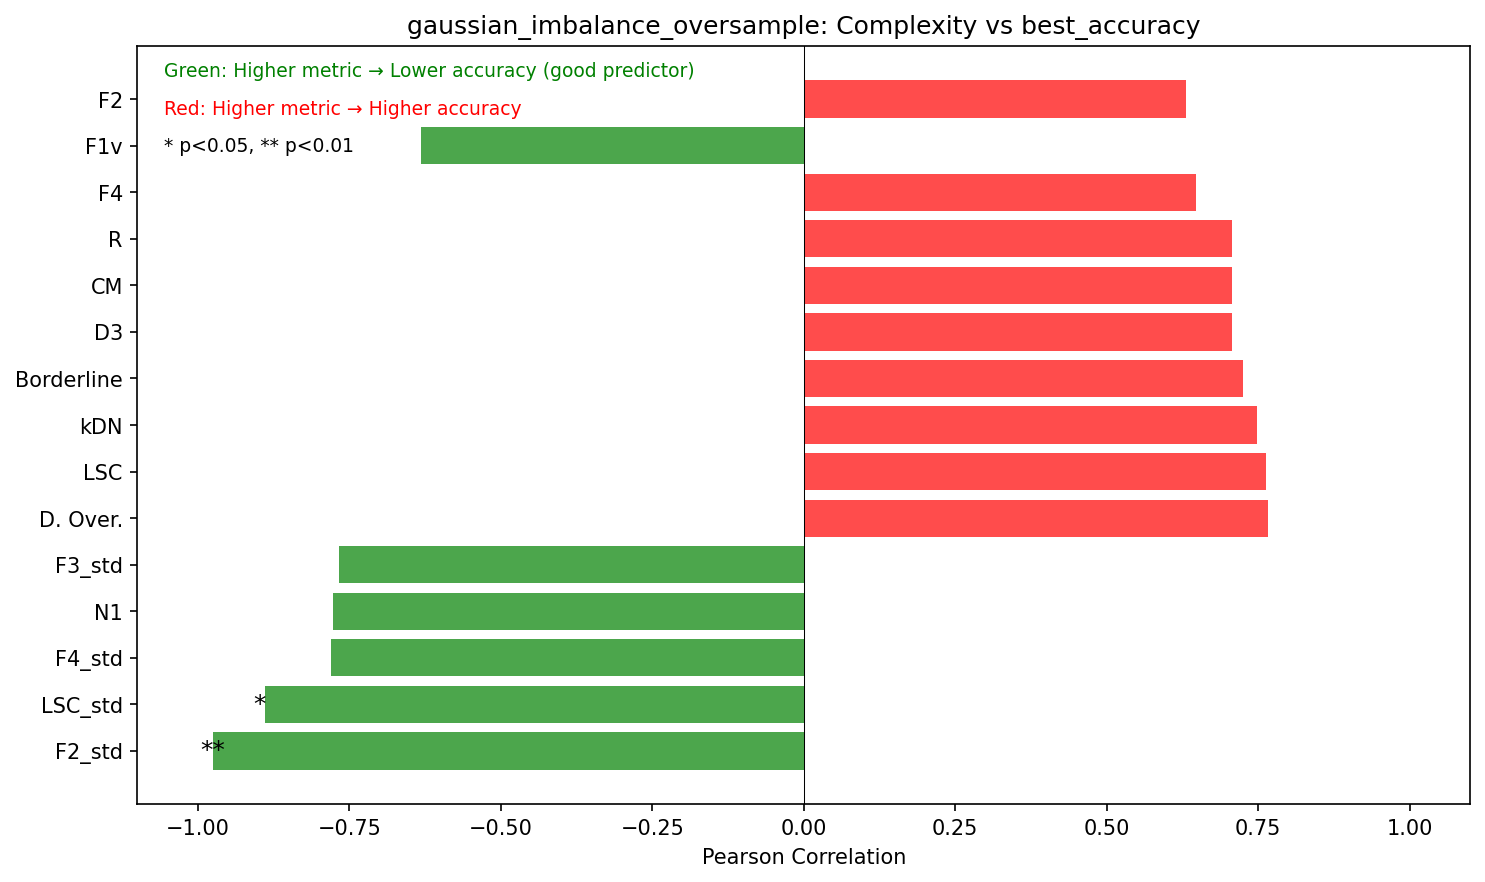
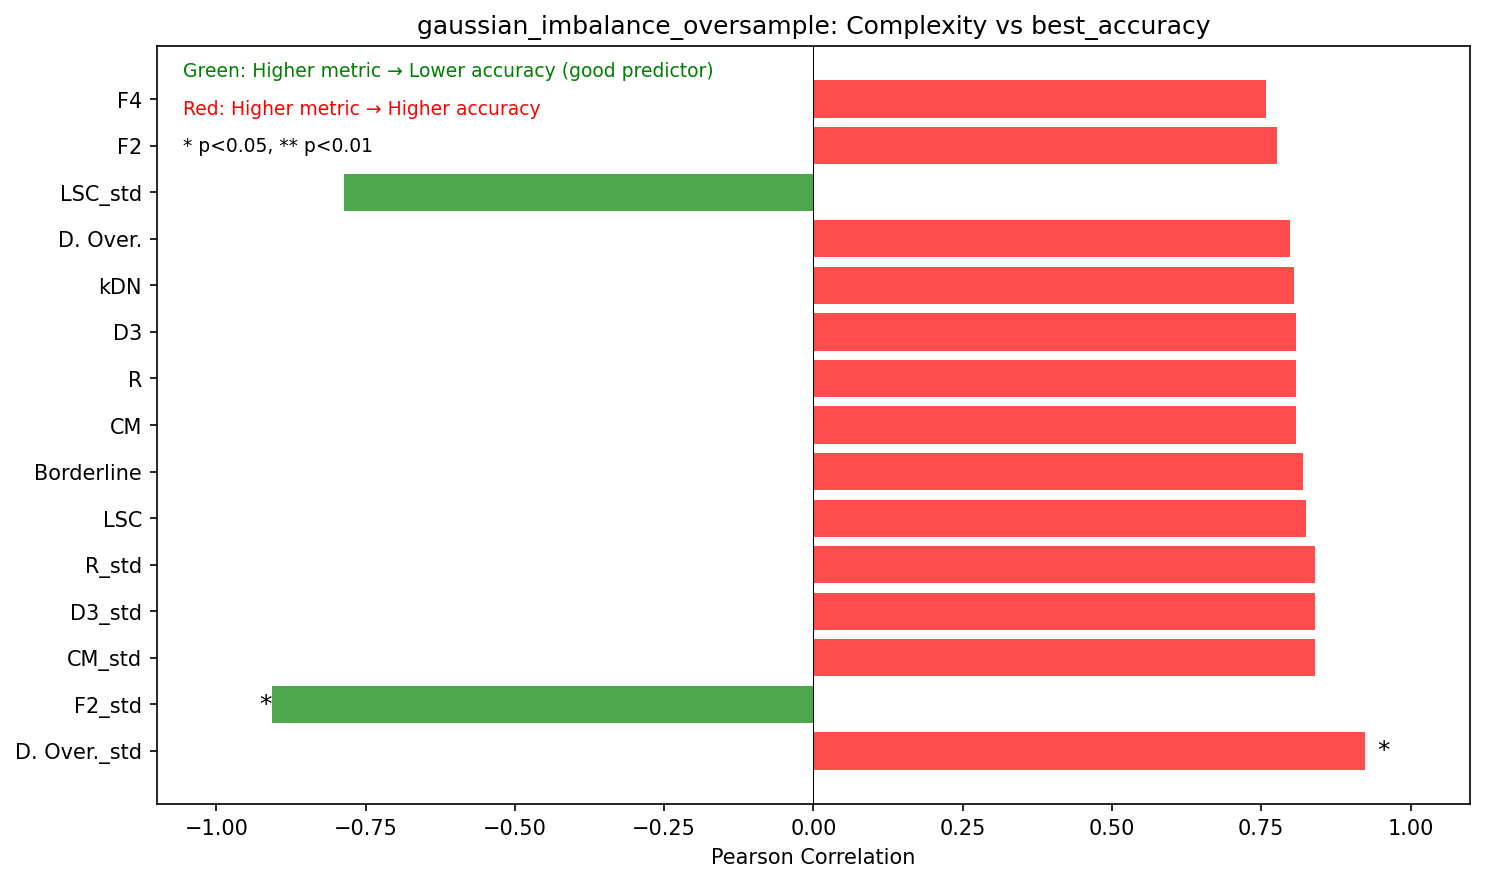
with dataloader oversampling

diff --git a/data_complexity/model_experiments/runs/run_gaussian_imbalance_oversample.py b/data_complexity/model_experiments/runs/run_gaussian_imbalance_oversample.py
@@ -26,78 +26,7 @@ from data_complexity.model_experiments.ml import (
     RandomForestModel,
     KNNModel,
 )
-
-class RandomOversampleBalanced:
-    def __call__(self, X, y):
-        """
-        Randomly duplicate minority class samples until class distribution is 1:1.
-
-        Parameters
-        ----------
-        X : np.ndarray
-            Feature matrix.
-        y : np.ndarray
-            Target vector.
-
-        Returns
-        -------
-        tuple
-            New X and y arrays with balanced class distribution.
-        """
-        classes, counts = np.unique(y, return_counts=True)
-        majority_count = counts.max()
-
-        X_parts = [X]
-        y_parts = [y]
-
-        for cls, count in zip(classes, counts):
-            if count < majority_count:
-                deficit = majority_count - count
-                minority_idx = np.where(y == cls)[0]
-                oversample_idx = np.random.choice(minority_idx, size=deficit, replace=True)
-                X_parts.append(X[oversample_idx])
-                y_parts.append(y[oversample_idx])
-        return np.concatenate(X_parts), np.concatenate(y_parts)
-    
-    def __repr__(self):
-        return "RandomOversampleBalanced()"
-
-    def __str__(self):
-        return "RandomOversampleBalanced()"
-
-    def __name__(self):
-        return "RandomOversampleBalanced"
-
-
-def systematic_oversample(X, y):
-    """
-    Duplicate each minority class sample exactly once (2x original minority count).
-
-    Parameters
-    ----------
-    X : np.ndarray
-        Feature matrix.
-    y : np.ndarray
-        Target vector.
-
-    Returns
-    -------
-    tuple
-        New X and y arrays with each minority sample duplicated once.
-    """
-    classes, counts = np.unique(y, return_counts=True)
-    majority_count = counts.max()
-
-    X_parts = [X]
-    y_parts = [y]
-
-    for cls, count in zip(classes, counts):
-        if count < majority_count:
-            minority_idx = np.where(y == cls)[0]
-            X_parts.append(X[minority_idx])
-            y_parts.append(y[minority_idx])
-
-    return np.concatenate(X_parts), np.concatenate(y_parts)
+from data_loaders.resampling import RandomDuplicateMinorityUpsampler
 
 
 # Configure custom models (subset of available models)
@@ -120,7 +49,7 @@ config = ExperimentConfig(
             "cov_type": "spherical", 
             "cov_scale": 1.0,
             "equal_test": True, # Ensure test set is balanced for fair evaluation of imbalance effects
-            "train_post_process": RandomOversampleBalanced(),
+            "train_post_process": RandomDuplicateMinorityUpsampler(factor="equal"),
         #   "test_post_process": systematic_oversample,
         },
     ),
